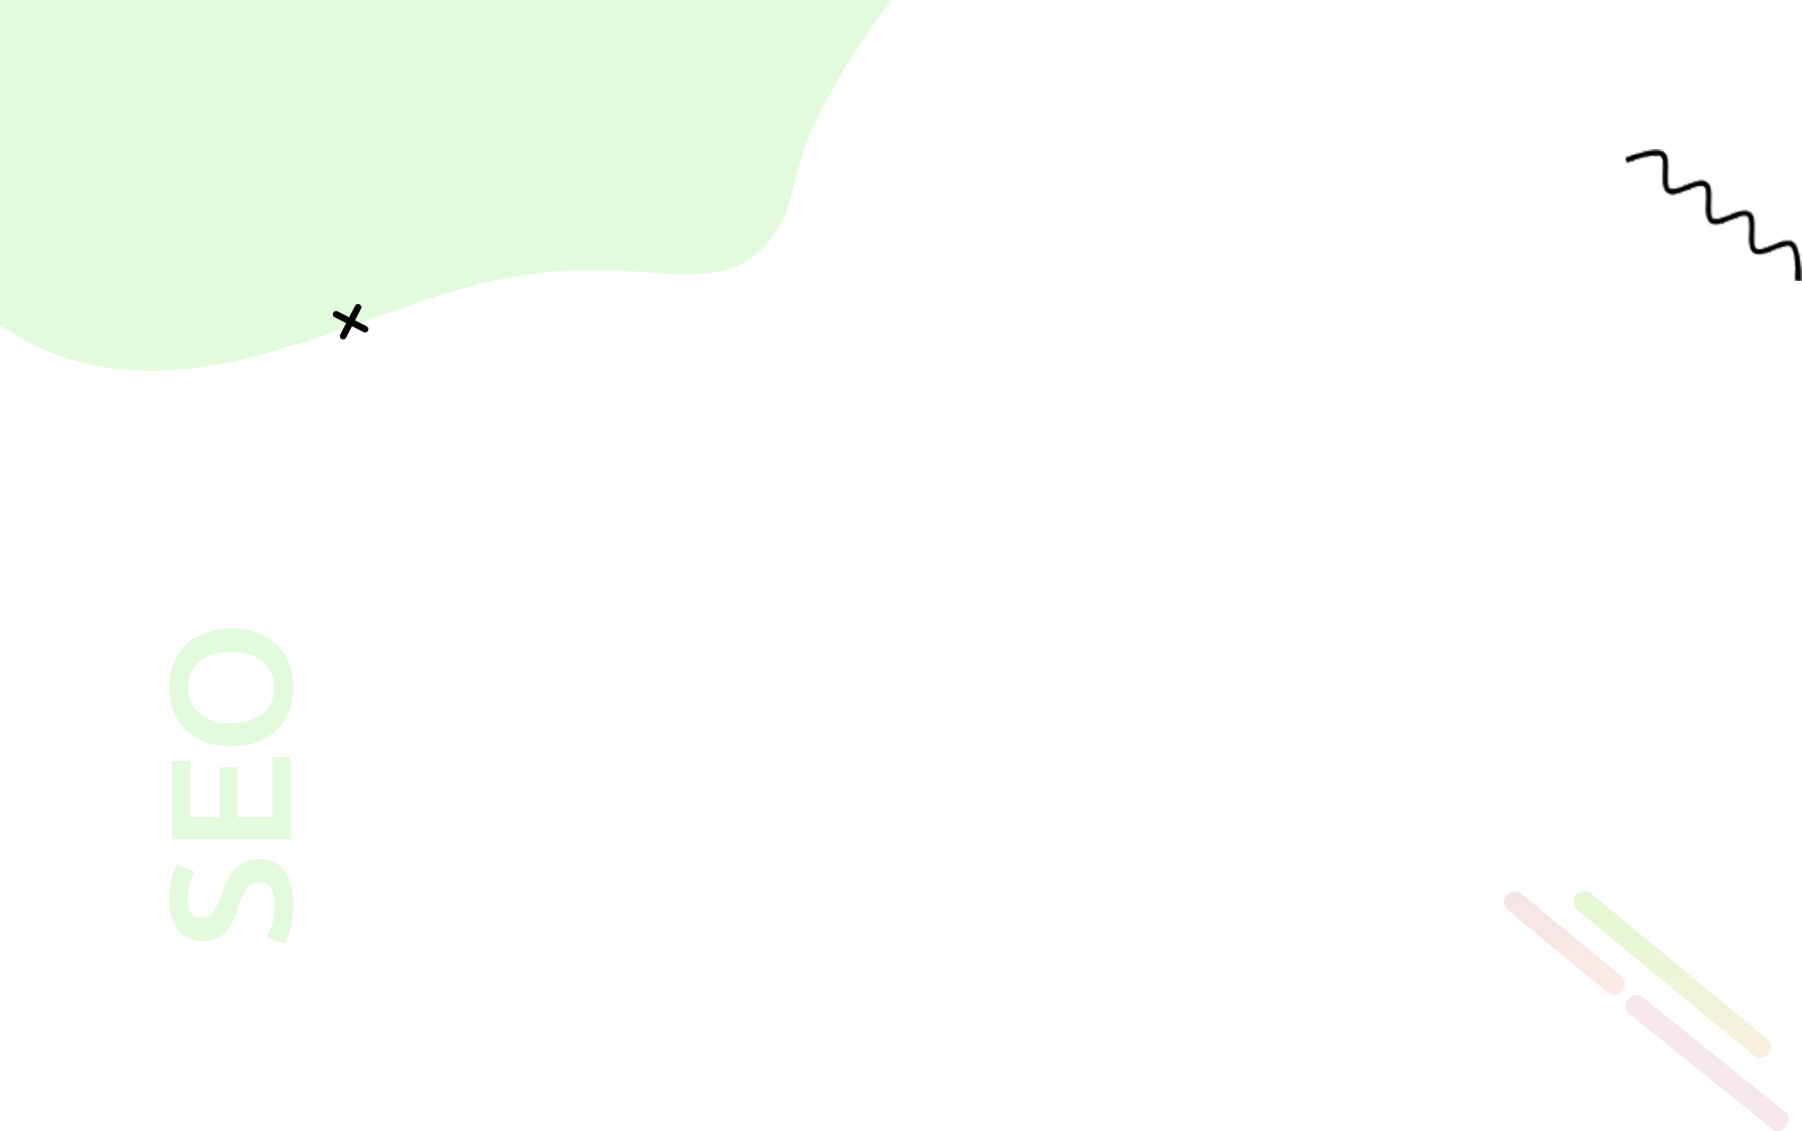
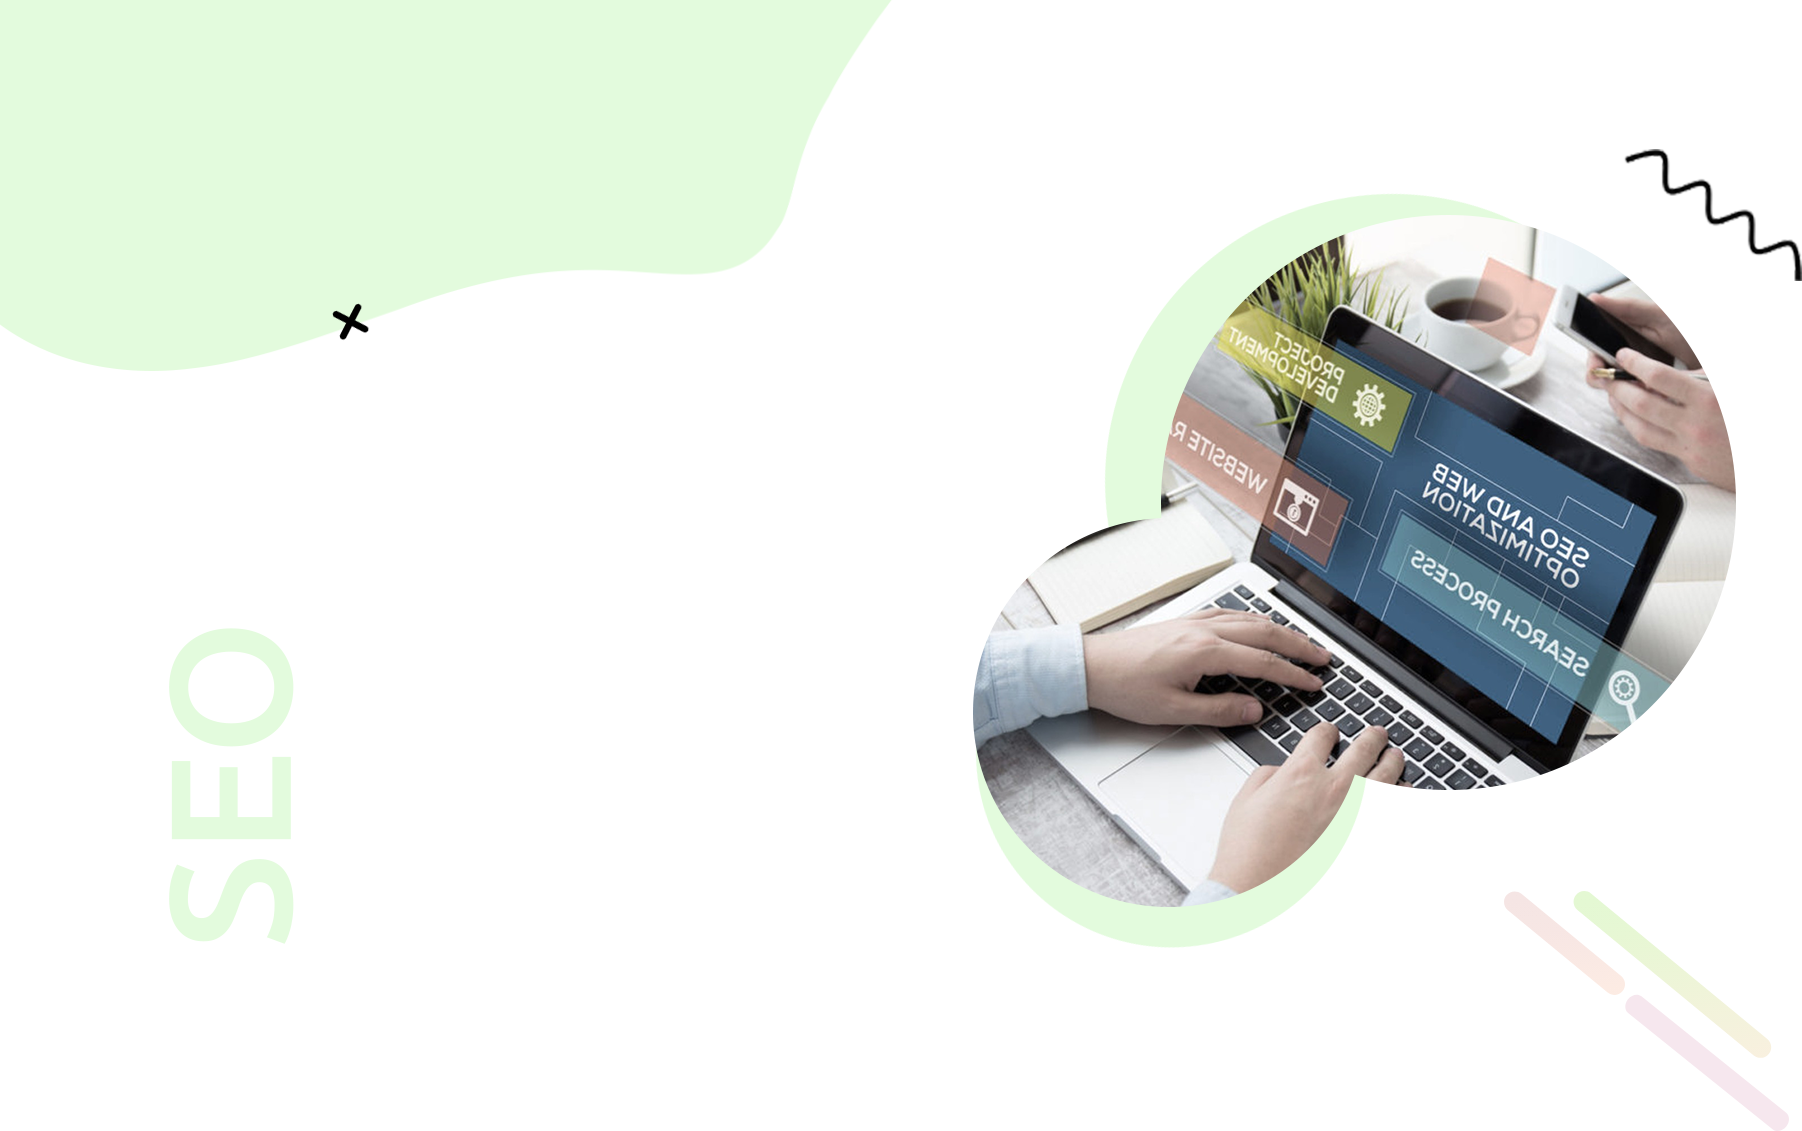
fix: change background image, laptop image now in bg image

Changed region(s): [[0.5283, 0.1547, 0.9634, 0.8355]]

diff --git a/src/index.html b/src/index.html
@@ -49,26 +49,17 @@
         </a>
       </div>
       <div class="container container__hero">
-        <div class="row hero__row">
-          <div class="col-50">
-            <div class="hero__content">
-              <h1 class="title hero__title">Продвижение Сайтов <span class="title--primary">в&nbsp;Санкт-Петербурге</span>
-              </h1>
-              <p class="hero__text">
-                Lorem ipsum dolor sit amet, consectetur adipisicing elit, sed do eiusmod tempor incididunt ut labore et dolore magna aliqua. Ut enim
-                ad
-                minim veniam, quis nostrud exercitation ullamco laboris nisi ut aliquip ex ea commodo consequat. Duis aute irure
-              </p>
-              <button class="button hero__button">Обратный звонок</button>
-            </div>
-            <!-- /.hero__content -->
-          </div>
-          <div class="col-50">
-            <img src="./img/laptop.png" alt="Ноутбук" class="hero__image">
-          </div>
-
+        <div class="hero__content">
+          <h1 class="title hero__title">Продвижение Сайтов <span class="title--primary">в&nbsp;Санкт-Петербурге</span>
+          </h1>
+          <p class="hero__text">
+            Lorem ipsum dolor sit amet, consectetur adipisicing elit, sed do eiusmod tempor incididunt ut labore et dolore magna aliqua. Ut enim
+            ad
+            minim veniam, quis nostrud exercitation ullamco laboris nisi ut aliquip ex ea commodo consequat. Duis aute irure
+          </p>
+          <button class="button hero__button">Обратный звонок</button>
         </div>
-        <!-- /.row -->
+        <!-- /.hero__content -->
       </div>
       <!-- /.container -->
     </section>

diff --git a/src/css/style.css b/src/css/style.css
@@ -340,11 +340,9 @@ a {
   margin: 0 auto; }
   .container__header {
     max-width: 1169px;
-    margin-left: 381px;
-    margin-right: 8.78rem; }
+    margin-left: 381px; }
   .container__hero {
-    position: relative;
-    margin-right: 8.78rem;
+    max-width: 1356px;
     margin-left: 376px; }
 
 .row {
@@ -352,8 +350,11 @@ a {
   align-items: flex-start;
   justify-content: space-between; }
 
+.col-45 {
+  width: 43%; }
+
 .col-50 {
-  width: 50%; }
+  width: 55%; }
 
 .menu {
   display: flex;
@@ -453,12 +454,8 @@ a {
     font-family: 'Ubuntu', sans-serif;
     font-size: 1rem;
     font-weight: 500; }
-  .hero__row {
-    position: relative; }
   .hero__image {
-    position: absolute;
-    top: 7.43rem;
-    right: -4.68rem; }
+    padding-top: 7.43rem; }
 
 .social__item {
   display: flex;

diff --git a/src/sass/_grid.sass b/src/sass/_grid.sass
@@ -4,16 +4,16 @@
   &__header
     max-width: 1169px
     margin-left: 381px
-    margin-right: 8.78rem 
   &__hero
-    position: relative
-    margin-right: 8.78rem 
+    max-width: 1356px
     margin-left: 376px
 .row
   display: flex
   align-items: flex-start
   justify-content: space-between
 .col    
+  &-45
+    width: 43%
   &-50
-    width: 50%
+    width: 55%
 

diff --git a/src/sass/templates/_hero.sass b/src/sass/templates/_hero.sass
@@ -33,12 +33,8 @@
     font-family: 'Ubuntu', sans-serif
     font-size: 1rem
     font-weight: 500
-  &__row
-    position: relative  
   &__image
-    position: absolute
-    top: 7.43rem 
-    right: -4.68rem
+    padding-top: 7.43rem 
 .social
   &__item
     display: flex
